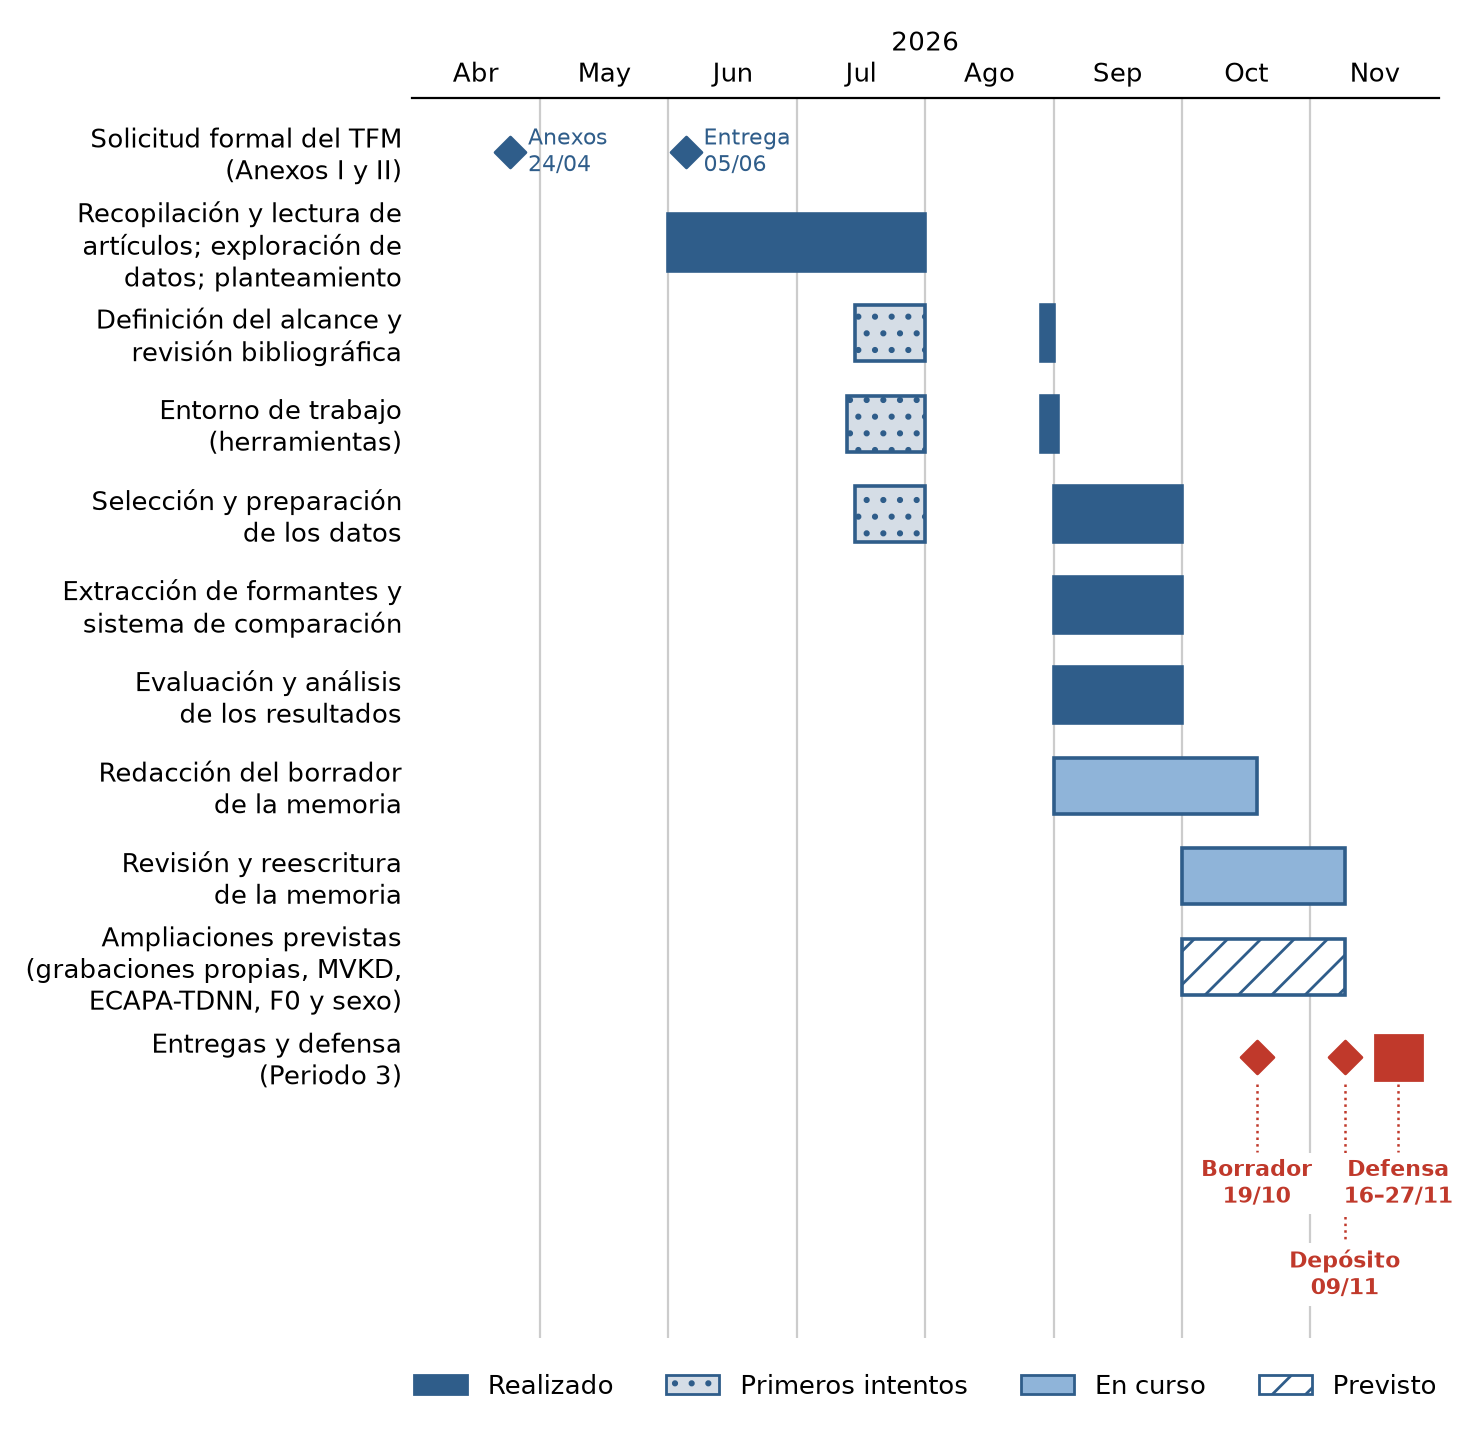
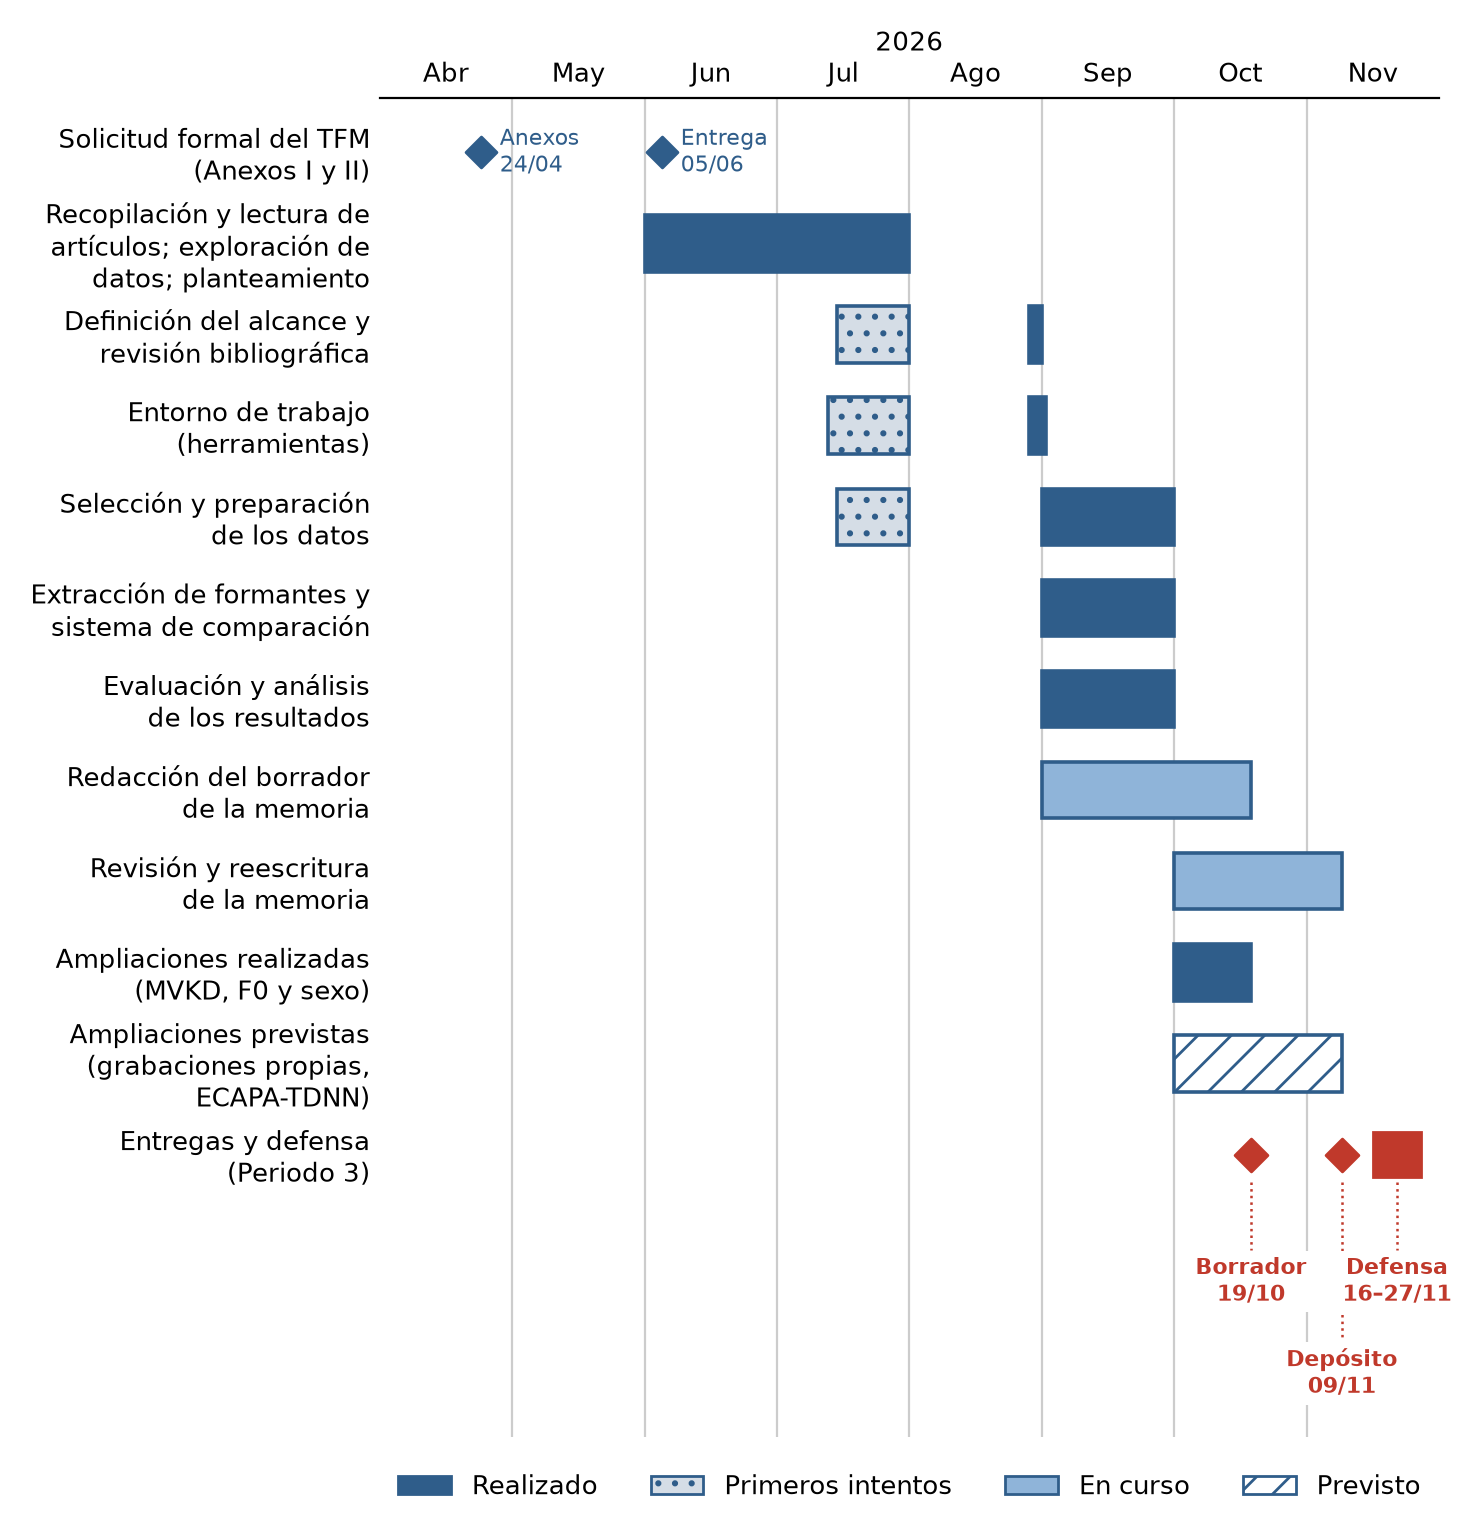
Actualizar el README y el cronograma tras completar el MVKD, F0 y sexo

diff --git a/codigo/python/figura_cronograma.py b/codigo/python/figura_cronograma.py
@@ -34,11 +34,12 @@ FASES = [
     ("Evaluación y análisis\nde los resultados", [(5, 6, "hecho")]),
     ("Redacción del borrador\nde la memoria", [(5, BORRADOR, "curso")]),
     ("Revisión y reescritura\nde la memoria", [(6, DEPOSITO, "curso")]),
-    ("Ampliaciones previstas\n(grabaciones propias, MVKD,\nECAPA-TDNN, F0 y sexo)", [(6, DEPOSITO, "previsto")]),
+    ("Ampliaciones realizadas\n(MVKD, F0 y sexo)", [(6, BORRADOR, "hecho")]),
+    ("Ampliaciones previstas\n(grabaciones propias,\nECAPA-TDNN)", [(6, DEPOSITO, "previsto")]),
 ]
 
 plt.rcParams.update({"font.size": 9.5})
-fig, ax = plt.subplots(figsize=(7.4, 7.2))
+fig, ax = plt.subplots(figsize=(7.4, 7.7))
 n = len(FASES)
 for i, (nombre, tramos) in enumerate(FASES):
     y = n - i

diff --git a/README.md b/README.md
@@ -18,7 +18,7 @@ proyecto-voz-forense/
 ├── datos/            # datos crudos, procesados y telefonicos (no versionados)
 ├── codigo/
 │   ├── python/       # scripts del pipeline, en orden de ejecucion (ver abajo)
-│   └── r/            # fvclrr instalado; pendiente de usar para MVKD (trabajo futuro)
+│   └── r/            # MVKD con el paquete fvclrr (mvkd_formantes.R)
 ├── rasgos/           # formantes extraidos (rasgos/formantes.csv)
 ├── resultados/       # metricas, tablas y figuras
 ├── segmentacion/     # intento fallido de WebMAUS (descartado, ver mas abajo)
@@ -66,9 +66,9 @@ metodológica, pero no forma parte del pipeline final; su sustituto es
 Extracción de formantes (F1–F4) de las vocales /a/, /e/, /i/, /o/, /u/ mediante detección
 acústica local (Parselmouth), y sistema de razón de verosimilitud mediante regresión
 logística sobre diferencias de formantes entre pares de grabaciones, con validación
-leave-one-speaker-out. Sustituye al método MVKD del estudio de referencia por
-restricción de tiempo; una implementación de MVKD con el paquete de R `fvclrr` (ya
-instalado en `codigo/r/`) queda como línea de trabajo futuro para el depósito.
+leave-one-speaker-out. Como comparación, el método MVKD del estudio de referencia se ha
+implementado con el paquete de R `fvclrr` (`codigo/r/mvkd_formantes.R`) y se evalúa con
+`codigo/python/mvkd_evaluacion.py`.
 
 ## Uso de IA generativa
 
